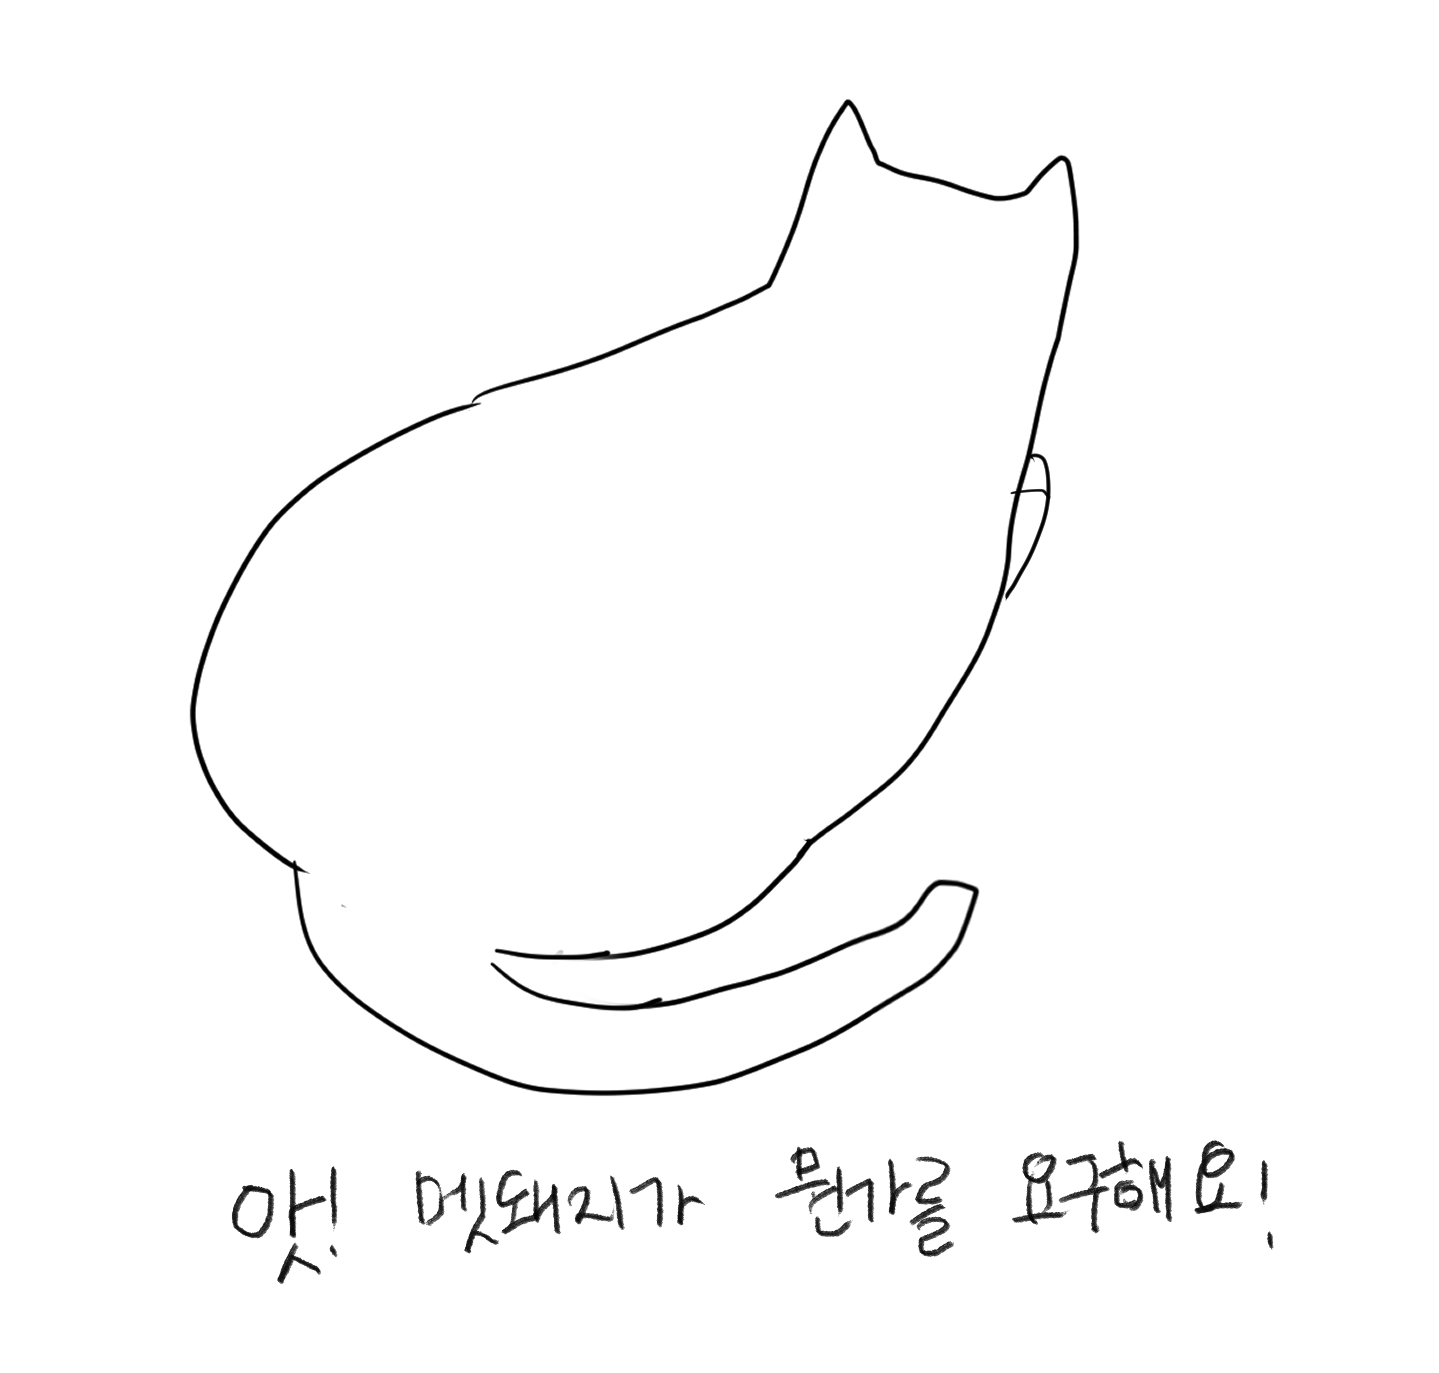
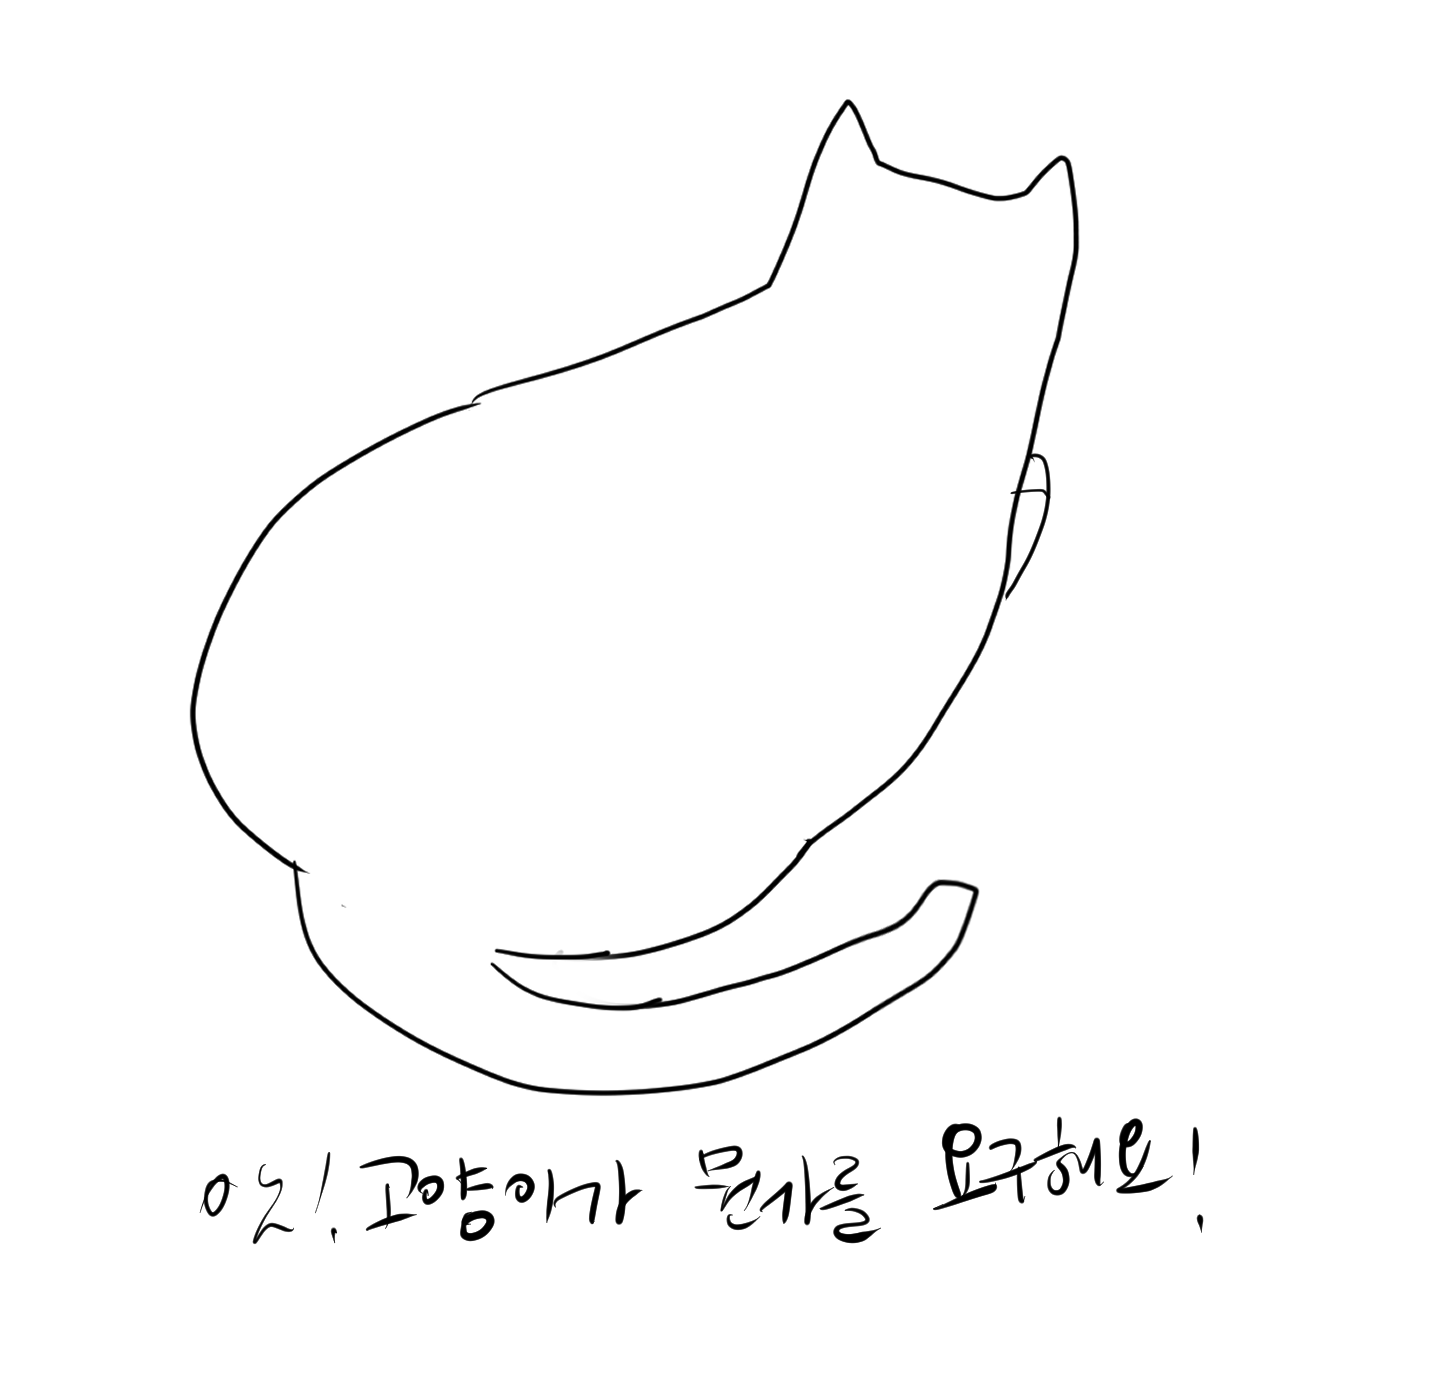
Add files via upload

Changed region(s): [[0.1223, 0.7953, 0.8867, 0.9483]]

diff --git a/10-2.html b/10-2.html
@@ -16,9 +16,9 @@
 <div id="article">
 <p>credit ~도움을 준 고양이들~</p>
 <div id="fixed"><a href="index.html"><img source src="merry.png" width="20"></a></div>
-<a href="10-1.html" title="뀨"><img src="1.png" width="30%"></a>
-<a href="10-2.html" title="뀨"><img src="1-1.png" width="30%"></a>
-<a href="10-3.html" title="뀨"><img src="3.png" width="30%"></a>
+<a href="10-1.html" title="뀨"><img src="1.png" width="30%"></a> 
+<br><a href="10-2.html" title="뀨"><img src="1-1.png" width="30%"></a><div id="cat1">프로토타입 고양이이다. 멍청하게 생겼다.</div>
+<br><a href="10-3.html" title="뀨"><img src="3.png" width="30%"></a>
 </div>
 </div>
 </body>

diff --git a/10-1.html b/10-1.html
@@ -16,9 +16,9 @@
 <div id="article">
 <p>credit ~도움을 준 고양이들~</p>
 <div id="fixed"><a href="index.html"><img source src="merry.png" width="20"></a></div>
-<a href="10-1.html" title="뀨"><img src="1.png" width="30%"></a>
-<a href="10-2.html" title="뀨"><img src="1-1.png" width="30%"></a>
-<a href="10-3.html" title="뀨"><img src="3.png" width="30%"></a>
+<a href="10-1.html" title="뀨"><img src="1.png" width="30%"></a> <div id="cat1">엉덩이를 좋아하는 고양이다.</div>
+<br><a href="10-2.html" title="뀨"><img src="1-1.png" width="30%"></a>
+<br><a href="10-3.html" title="뀨"><img src="3.png" width="30%"></a>
 </div>
 </div>
 </body>

diff --git a/10-3.html b/10-3.html
@@ -16,9 +16,9 @@
 <div id="article">
 <p>credit ~도움을 준 고양이들~</p>
 <div id="fixed"><a href="index.html"><img source src="merry.png" width="20"></a></div>
-<a href="10-1.html" title="뀨"><img src="1.png" width="30%"></a>
-<a href="10-2.html" title="뀨"><img src="1-1.png" width="30%"></a>
-<a href="10-3.html" title="뀨"><img src="3.png" width="30%"></a>
+<a href="10-1.html" title="뀨"><img src="1.png" width="30%"></a> 
+<br><a href="10-2.html" title="뀨"><img src="1-1.png" width="30%"></a>
+<br><a href="10-3.html" title="뀨"><img src="3.png" width="30%"></a><div id="cat1">어쩐지 익숙한 뒷태다.</div>
 </div>
 </div>
 </body>

diff --git a/9.html b/9.html
@@ -6,7 +6,7 @@
 <link rel="stylesheet" href="style.css">
 </head>
 <body>
-<a href="7-.html" title="뀨뀨"><h1>Merry Christmas</h1></a>
+<a href="7-.html" title="뀨뀨"><h1>Merry Christmas!</h1></a>
 <div id="grid">
 <ol>
     <a href="8.html" title="뀨"><li>Hello</li></a>
@@ -15,7 +15,7 @@
 </ol>
 <div id="article">
 <p><strong>짠!
-    <br>선물받기</br></strong></p>
+    <br><a id="present" href="pr.html">선물받기</a></br></strong></p>
     <div id="fixed"><a href="index.html"><img source src="merry.png" width="20"></a></div>
 </div>
 </div>

diff --git a/5.html b/5.html
@@ -3,6 +3,7 @@
 <head>
     <title>Santa</title>
 <meta charset="utp-8">
+<link rel="stylesheet" href="style.css">
 </head>
 <body>
     <br>
@@ -10,7 +11,7 @@
     <br>
     <br>
     <body style="background-color:PINK"></body>
-    <center><h1>앙!</h1></center>
-    <a href="6.html"><stroke><h6><p style="text-align:right;">merry...</p></h6></stroke>
+    <center> <a href="7-.html"><h2>앙!</h2></a></center>
+    <a href="7-.html"><stroke><h6><p style="text-align:right; color:darkblue;">merry...</p></h6></stroke>
 </body>
 </html>

diff --git a/style.css b/style.css
@@ -20,6 +20,21 @@
        margin:0;
        padding: 30px;
    }
+   #cat1{ color:darkblue;
+    font-size: 10px;
+    position:static;
+    display: inline;
+    bottom:40px;
+    right:150px;
+    border:3px solid coral;
+   }
+   #present{
+        color:coral;
+   }
+   h2{
+        color:darkblue;
+        font-size:55px;
+   }
    #grid ol{
        border-right: 1px solid wheat;
        width: 100px;

diff --git a/8.html b/8.html
@@ -6,7 +6,7 @@
 <link rel="stylesheet" href="style.css">
 </head>
 <body>
-<a href="7-.html" title="뀨뀨"><h1>Merry Christmas</h1></a>
+<a href="7-.html" title="뀨뀨"><h1>Merry Christmas!</h1></a>
 <div id="grid">
 <ol>
     <a href="8.html" title="뀨" id="active"><li>Hello</li></a>

diff --git a/7-.html b/7-.html
@@ -6,7 +6,7 @@
 <link rel="stylesheet" href="style.css">
 </head>
 <body>
-<a href="7-.html" title="뀨뀨"><h1>Merry Christmas</h1></a>
+<a href="7-.html" title="뀨뀨"><h1>Merry Christmas!</h1></a>
 <div id="grid">
 <ol>
     <a href="8.html" title="뀨"><li>Hello</li></a>

diff --git a/pr.html b/pr.html
@@ -1,0 +1,10 @@
+<!DOCTYPE html>
+<html>
+<head>
+    <title>Santa</title>
+<meta charset="utp-8">
+</head>
+<body>
+    <a href="9.html"><img source src="pr.jpg" width="500">
+</body>
+</html>
